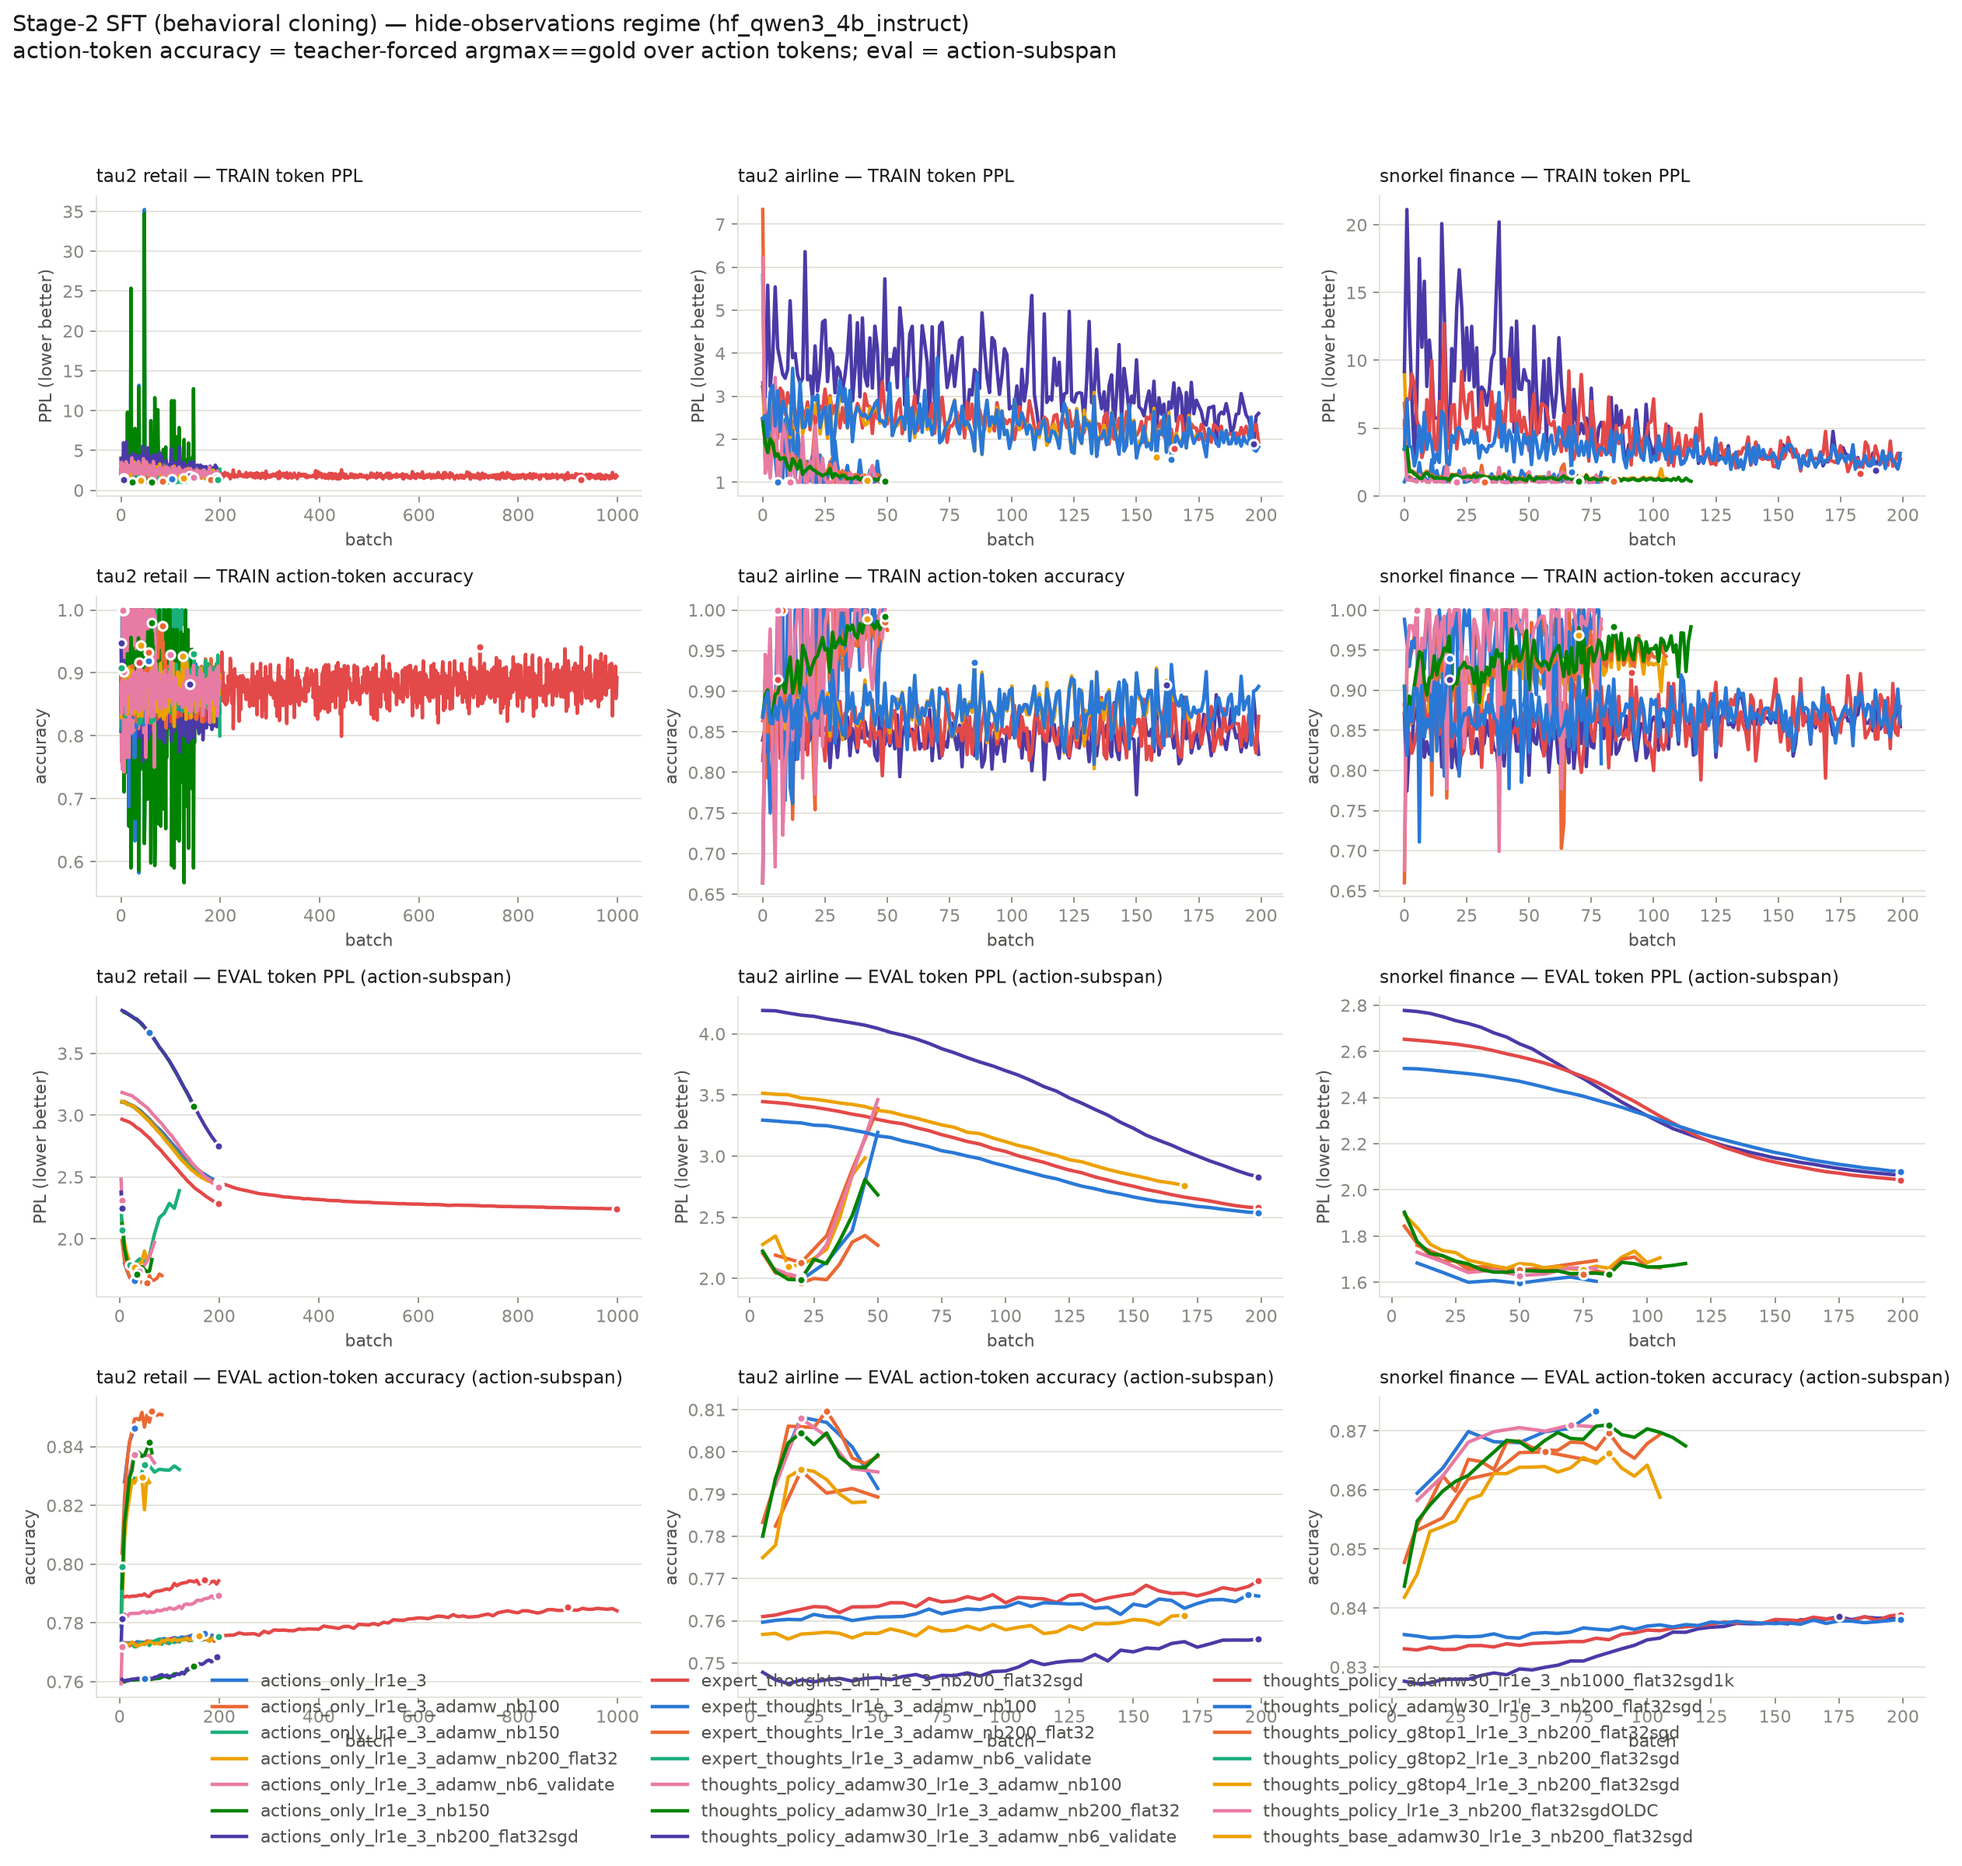
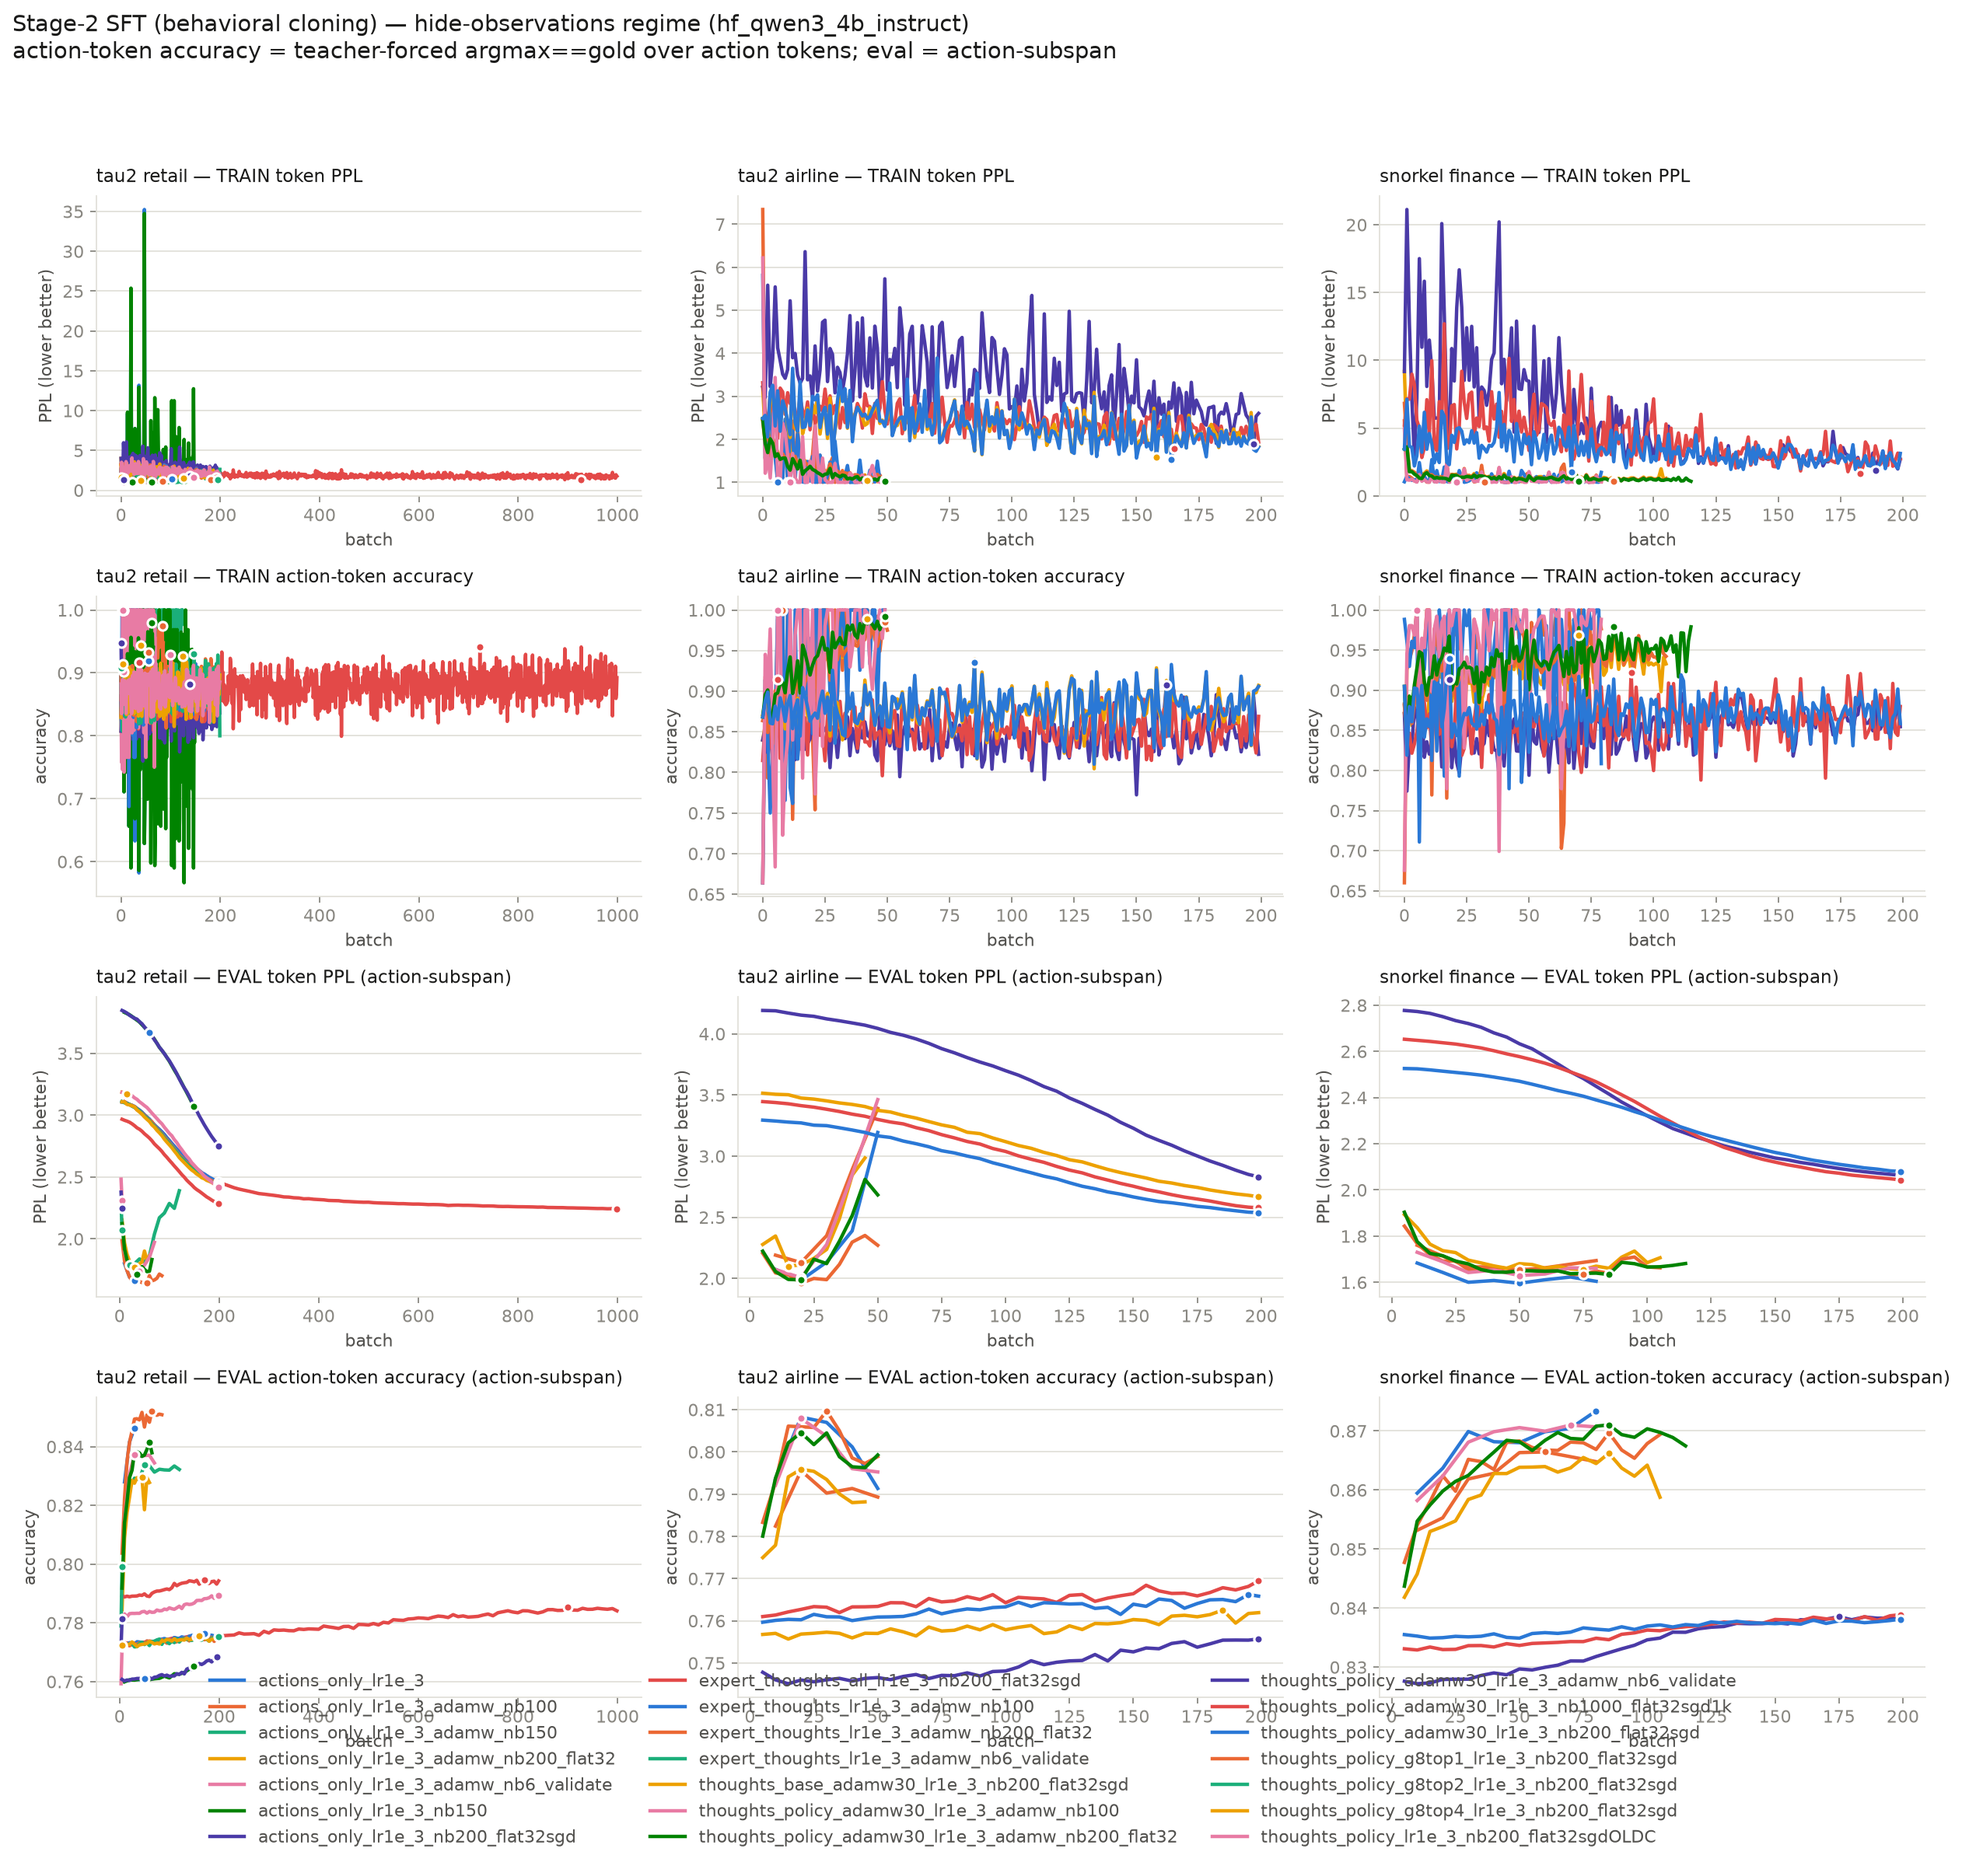
auto: SFT LR sweep results snapshot

Changed region(s): [[0.6183, 0.875, 0.8656, 1.0], [0.3401, 0.875, 0.5874, 1.0], [0.1237, 0.875, 0.3092, 1.0]]

diff --git a/notes/cc-5.0-sft-lr-investigation.md b/notes/cc-5.0-sft-lr-investigation.md
@@ -374,6 +374,7 @@ retail/expert_thoughts_lr1e_3_adamw_nb100            hide   60     1.8014 ->   1
 retail/expert_thoughts_lr1e_3_adamw_nb100            hide   30     1.7999 ->   1.6634   7.58%  0.8463        1.0000  <running>
 retail/expert_thoughts_lr1e_3_adamw_nb200_flat32     hide   85     1.9852 ->   1.7020  14.27%  0.8509        1.2054  <running>
 retail/expert_thoughts_lr1e_3_adamw_nb6_validate     hide    5     2.2879 ->   2.0729   9.40%  0.7990        1.4971
+retail/thoughts_base_adamw30_lr1e_3_nb200_flat32sgd  hide   16     3.1858 ->   3.1748   0.35%  0.7723        2.1086  <running>
 retail/thoughts_policy_adamw30_lr1e_3_adamw_nb100    hide   70     1.8959 ->   1.9718  -4.00%  0.8345        1.3828  <running>
 retail/thoughts_policy_adamw30_lr1e_3_adamw_nb200_flat32 hide   65     2.1230 ->   1.8328  13.67%  0.8379        1.2222  <running>
 retail/thoughts_policy_adamw30_lr1e_3_adamw_nb6_validate hide    5     2.3775 ->   2.2449   5.57%  0.7814        1.3506
@@ -389,7 +390,7 @@ airline/actions_only_lr1e_3_nb200_flat32sgd          hide  199     4.1913 ->   2
 airline/expert_thoughts_all_lr1e_3_nb200_flat32sgd   hide  199     3.4458 ->   2.5772  25.21%  0.7695        1.9357
 airline/expert_thoughts_lr1e_3_adamw_nb100           hide   50     2.0737 ->   3.1936 -54.00%  0.7913        1.0000  <running>
 airline/expert_thoughts_lr1e_3_adamw_nb200_flat32    hide   50     2.2052 ->   2.2707  -2.97%  0.7989        1.1013  <running>
-airline/thoughts_base_adamw30_lr1e_3_nb200_flat32sgd hide  174     3.5146 ->   2.7596  21.48%  0.7613        2.0959  <running>
+airline/thoughts_base_adamw30_lr1e_3_nb200_flat32sgd hide  199     3.5146 ->   2.6673  24.11%  0.7619        1.8367
 airline/thoughts_policy_adamw30_lr1e_3_adamw_nb100   hide   50     2.0724 ->   3.4621 -67.06%  0.7952        1.0000  <running>
 airline/thoughts_policy_adamw30_lr1e_3_adamw_nb200_flat32 hide   50     2.2230 ->   2.6830 -20.69%  0.7993        1.0701  <running>
 airline/thoughts_policy_adamw30_lr1e_3_nb200_flat32sgd hide  199     3.2944 ->   2.5375  22.98%  0.7658        1.8220
@@ -403,9 +404,9 @@ snorkel_finance_split/thoughts_policy_adamw30_lr1e_3_adamw_nb100 hide   80     1
 snorkel_finance_split/thoughts_policy_adamw30_lr1e_3_adamw_nb200_flat32 hide  115     1.9037 ->   1.6815  11.67%  0.8675        1.0747  <running>
 snorkel_finance_split/thoughts_policy_adamw30_lr1e_3_nb200_flat32sgd hide  199     2.5260 ->   2.0800  17.66%  0.8381        3.1304
 
-19/39 arms complete   (Δ% = held-out action-subspan PPL improvement, higher is better)
+20/40 arms complete   (Δ% = held-out action-subspan PPL improvement, higher is better)
 ```
-_last refreshed: 2026-09-08 06:00_
+_last refreshed: 2026-09-08 06:20_
 <!--/RESULTS-->
 
 ## Infrastructure

diff --git a/notes/cc-3.0-retail_sft_results.md b/notes/cc-3.0-retail_sft_results.md
@@ -40,6 +40,7 @@ for wordiness rather than for mispredicting the action, which inverts the rankin
 | expert_thoughts_lr1e_3_adamw_nb6_validate | hide | 2.0729 | 0.7990 | 5 | — | — | — | 0.4444 |
 | expert_thoughts_lr1e_4_adamw_nb200_flat32 | hide | 1.6373 | 0.8487 | 115 | — | — | — | 0.4836 |
 | expert_thoughts_lr3e_3_nb150 | hide | 2.1071 | 0.7973 | 149 | 3.2141 | 0.6958 | 149 | 0.5808 |
+| thoughts_base_adamw30_lr1e_3_nb200_flat32sgd | hide | 3.1748 | 0.7723 | 15 | — | — | — | 0.8976 |
 | thoughts_base_last | hide | 3.1928 | 0.7784 | 59 | 3.6738 | 0.7401 | 59 | 0.9956 |
 | thoughts_base_lr3e_3_nb150 | hide | 2.2003 | 0.7890 | 149 | 2.3705 | 0.7610 | 149 | 0.6979 |
 | thoughts_policy_1gen_lr3e_3_nb150 | hide | 2.2058 | 0.7931 | 149 | 2.3954 | 0.7614 | 149 | 0.3960 |
@@ -97,6 +98,7 @@ that saved step:
 | expert_thoughts_lr1e_3_adamw_nb6_validate | hide | — | — |
 | expert_thoughts_lr1e_4_adamw_nb200_flat32 | hide | — | — |
 | expert_thoughts_lr3e_3_nb150 | hide | 2.1071 | 0.7973 |
+| thoughts_base_adamw30_lr1e_3_nb200_flat32sgd | hide | — | — |
 | thoughts_base_last | hide | 3.1928 | 0.7784 |
 | thoughts_base_lr3e_3_nb150 | hide | 2.2003 | 0.7890 |
 | thoughts_policy_1gen_lr3e_3_nb150 | hide | 2.2058 | 0.7931 |

diff --git a/notes/cc-3.0-airline_sft_results.md b/notes/cc-3.0-airline_sft_results.md
@@ -29,7 +29,7 @@ for wordiness rather than for mispredicting the action, which inverts the rankin
 | expert_thoughts_lr1e_3_adamw_nb100 | hide | 1.9863 | 0.8082 | 20 | 3.0771 | 0.7030 | 20 | 0.0003 |
 | expert_thoughts_lr1e_3_adamw_nb200_flat32 | hide | 1.9604 | 0.8059 | 20 | — | — | — | 0.2031 |
 | expert_thoughts_lr3e_3_nb150 | hide | 2.3383 | 0.7732 | 149 | 3.6514 | 0.6699 | 149 | 1.2357 |
-| thoughts_base_adamw30_lr1e_3_nb200_flat32sgd | hide | 2.7596 | 0.7613 | 170 | — | — | — | 0.8621 |
+| thoughts_base_adamw30_lr1e_3_nb200_flat32sgd | hide | 2.6673 | 0.7619 | 199 | — | — | — | 0.6427 |
 | thoughts_base_last | hide | 3.5051 | 0.7504 | 59 | 4.0264 | 0.7143 | 40 | 0.4372 |
 | thoughts_base_lr3e_3_nb150 | hide | 2.3981 | 0.7644 | 149 | 2.5832 | 0.7398 | 149 | 0.8685 |
 | thoughts_policy_adamw30_lr1e_3_adamw_nb100 | hide | 2.0055 | 0.8079 | 20 | 2.2383 | 0.7668 | 10 | 0.0872 |
